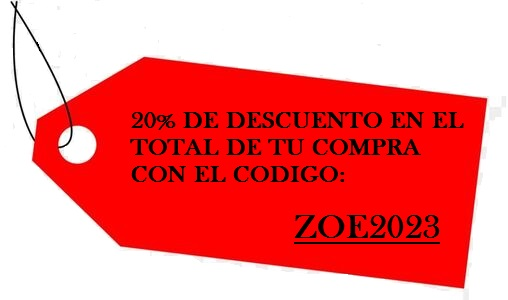
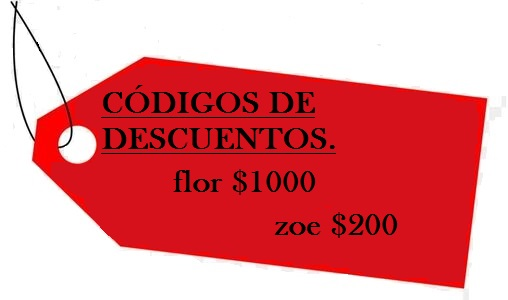
Estilo al carrito

diff --git a/index.html b/index.html
@@ -53,14 +53,17 @@
 
         <section class="productos" id="productos">
             <h1 class="h1-productos">PRODUCTOS DESTACADOS</h1>
-            <button onclick="mostrarCarrito()">VER TOTAL</button>
-            <button onclick="vaciarCarrito()">VACIAR CARRITO</button>
-            <p id="resultado-final"></p>
-            <input type="text" id="input-descuento">
-            <button onclick="aplicarDescuento()">APLICAR DESCUENTO</button>
+            <div class="carrito-productos">
+                <h2>TU CARRITO</h2>
+                <button onclick="mostrarCarrito()">VER TOTAL</button>
+                <button onclick="vaciarCarrito()">VACIAR CARRITO</button>
+                <p id="resultado-final"></p>
+                <input placeholder="ingrese codigo de descuento" type="text" id="input-descuento">
+                <button onclick="aplicarDescuento()">APLICAR DESCUENTO</button>
+            </div>
             <article class="section-productos">
                 <section class="contenedor">
-                    <div class="contenedor-items" >
+                    <div class="contenedor-items">
                         <div class="item">
                             <span class="titulo-item">REMERAS HOMBRE GRANDES</span>
                             <p class="descripcion-item">Remeras para hombre, talles XL, XXL y XXXL,
@@ -68,7 +71,8 @@
                             <img src="img/remera-hombre-grande.jpeg" alt="imagen-remera-estampada-hombre-grande"
                                 class="img-item">
                             <span class="precio-item">$5000</span>
-                            <button class="boton-img" onclick="agregar({nombre: 'remeras', precio: 2000})">Agregar al carrito</button>
+                            <button class="boton-img" onclick="agregar({nombre: 'REMERAS HOMBRE GRANDES', precio: 5000})">Agregar al
+                                carrito</button>
                         </div>
                     </div>
 
@@ -79,7 +83,8 @@
                                 estampado a elección.</p>
                             <img src="img/remera-homre.jpeg" alt="imagen-remera-estampada-hombre" class="img-item">
                             <span class="precio-item">$4000</span>
-                            <button class="boton-img" onclick="agregar({nombre: 'remeras', precio: 2000})">Agregar al carrito</button>
+                            <button class="boton-img" onclick="agregar({nombre: 'REMERAS HOMBRE', precio: 4000})">Agregar al
+                                carrito</button>
                         </div>
                     </div>
 
@@ -90,7 +95,8 @@
                                 estampado a elección.</p>
                             <img src="img/remeras-ninios.jpeg" alt="imagen-remera-estampada-ninios" class="img-item">
                             <span class="precio-item">$3000</span>
-                            <button class="boton-img" onclick="agregar({nombre: 'remeras', precio: 2000})">Agregar al carrito</button>
+                            <button class="boton-img" onclick="agregar({nombre: 'REMERAS NIÑOS', precio: 3000})">Agregar al
+                                carrito</button>
                         </div>
                     </div>
 
@@ -101,7 +107,8 @@
                                 estampado a elección.</p>
                             <img src="img/remera-mujer.jpeg" alt="imagen-remera-estampada-mujeres" class="img-item">
                             <span class="precio-item">$4500</span>
-                            <button class="boton-img" onclick="agregar({nombre: 'remeras', precio: 2000})">Agregar al carrito</button>
+                            <button class="boton-img" onclick="agregar({nombre: 'REMERAS MUJER', precio: 4500})">Agregar al
+                                carrito</button>
                         </div>
                     </div>
 
@@ -112,7 +119,7 @@
                                 estampado a elección.</p>
                             <img src="img/remera-mujer-grande.jpeg" alt="imagen-remera-estampada-mujeres"
                                 class="img-item">
-                            <span class="precio-item" onclick="agregar({nombre: 'remeras', precio: 2000})">$5500</span>
+                            <span class="precio-item" onclick="agregar({nombre: 'REMERAS MUJER GRANDES', precio: 5500})">$5500</span>
                             <button class="boton-img">Agregar al carrito</button>
                         </div>
                     </div>
@@ -124,18 +131,21 @@
                             <img src="img/productos-taza-independiente.jpeg" alt="imagen-tazas-estampada"
                                 class="img-item">
                             <span class="precio-item">$2500</span>
-                            <button class="boton-img" onclick="agregar({nombre: 'remeras', precio: 2000})">Agregar al carrito</button>
+                            <button class="boton-img" onclick="agregar({nombre: 'TAZAS', precio: 2500})">Agregar al
+                                carrito</button>
                         </div>
                     </div>
 
                     <div class="contenedor-items">
                         <div class="item">
                             <span class="titulo-item">GORRAS HOMBRE - MUJER -NIÑOS</span>
-                            <p class="descripcion-item">Gorras unisex con color y estampado a elección, distintos talles.</p>
+                            <p class="descripcion-item">Gorras unisex con color y estampado a elección, distintos
+                                talles.</p>
                             <img src="img/gorras-estampadas.jpeg" alt="imagen-remera-estampada-mujeres"
                                 class="img-item">
                             <span class="precio-item">$2000</span>
-                            <button class="boton-img" onclick="agregar({nombre: 'remeras', precio: 2000})">Agregar al carrito</button>
+                            <button class="boton-img" onclick="agregar({nombre: 'GORRAS', precio: 2000})">Agregar al
+                                carrito</button>
                         </div>
                     </div>
 
@@ -146,7 +156,8 @@
                                 15cm.</p>
                             <img src="img/cuadros-estampados.jpeg" alt="imagen-cuadro-estampado" class="img-item">
                             <span class="precio-item">$1500</span>
-                            <button class="boton-img" onclick="agregar({nombre: 'remeras', precio: 2000})">Agregar al carrito</button>
+                            <button class="boton-img" onclick="agregar({nombre: 'CUADROS EN MADERA', precio: 1500})">Agregar al
+                                carrito</button>
                         </div>
                     </div>
                 </section>
@@ -164,7 +175,8 @@
                             <span class="titulo-item">REMERAS</span>
                             <p class="descripcion-item">Llevando 3 remeras a elección tenes un 10% de descuento en
                                 el total.</p>
-                            <img src="img/promo-remeras.jpeg" alt="imagen-remera-estampada-hombre-grande" class="img-item">
+                            <img src="img/promo-remeras.jpeg" alt="imagen-remera-estampada-hombre-grande"
+                                class="img-item">
                             <span class="precio-item">$10.800</span>
                             <button class="boton-img-promo">Agregar al carrito</button>
                         </div>
@@ -175,7 +187,8 @@
                             <span class="titulo-item">REMERAS NIÑOS</span>
                             <p class="descripcion-item">Llevando 5 remeras a elección, llevate de regalo una taza
                                 con tu nombre!.</p>
-                            <img src="img/promo-ninios.jpeg" alt="imagen-remera-estampada-hombre-grande" class="img-item">
+                            <img src="img/promo-ninios.jpeg" alt="imagen-remera-estampada-hombre-grande"
+                                class="img-item">
                             <span class="precio-item">$15.000</span>
                             <button class="boton-img-promo">Agregar al carrito</button>
                         </div>
@@ -288,7 +301,7 @@
                 </div>
                 <div class="descuento">
                     <img src="img/descuentos.jpeg" alt="descuento">
-                    <p> Hasta 30% de descuentos con compra mayor a 10 prendas!.</p>
+                    <p> Increíbles descuentos utilizando los códigos 'flor' y 'zoe'.</p>
                 </div>
             </article>
         </section>

diff --git a/js/main.js b/js/main.js
@@ -1,3 +1,5 @@
+ //menu hamburguesa
+ 
  const ham = document.querySelector(".ham");
  const enlace = document.querySelector(".enlaces-menu");
  const barras = document.querySelectorAll(".ham span");
@@ -7,44 +9,7 @@
    barras.forEach(child => { child.classList.toggle("animado") });
  });
 
- //carousel
- function changeSlide(carouselId, n) {
-  const carousel = document.getElementById(carouselId);
-  const slides = carousel.getElementsByClassName('slides')[0];
-  const slideIndex = parseInt(carousel.getAttribute('data-slide-index')) || 0;
-
-  const newSlideIndex = slideIndex + n;
-  const slideWidth = slides.offsetWidth / 3;
-
-  if (newSlideIndex >= slides.children.length || newSlideIndex < 0) {
-    return;
-  }
-
-  slides.style.transform = `translateX(-${slideWidth * newSlideIndex}px)`;
-  carousel.setAttribute('data-slide-index', newSlideIndex);
-}
-
-
-
- //clase objetos
-// class Gato {
-//     constructor(nombre, color, vidas, tamanio, alimento, edad, castrado) {
-//         this.nombre = nombre;
-//         this.color = color;
-//         this.vidas = vidas;
-//         this.tamanio = tamanio;
-//         this.alimento = alimento;
-//         this.edad = edad;
-//         this.castrado = castrado;
-//     }
-// } 
-
-// const pantufla = new Gato ("pantufla", "blanco y naranja", 7, "s", "whiskas", "7 meses", false);
-// const mateo = new Gato ("mateo", "negro y blanco", 10, "m", "pollo", "2 anios", true);
-
-// console.log(Gato);
-// console.log(pantufla);
-// console.log(mateo);
+ //carrito
 
 let carrito = [];
 let descuento = 0;
@@ -53,6 +18,7 @@ const  p  = document.getElementById("resultado-final");
 function agregar(producto) { 
   carrito.push(producto);
   console.log(carrito);
+  alert("producto agregado correctamente");
   
 } 
 

diff --git a/sass/sections/_productos.scss b/sass/sections/_productos.scss
@@ -24,3 +24,39 @@
         }
     }
 }
+
+.carrito-productos {
+    display: flex;
+    flex-direction: column;
+    margin: 15px;
+    gap: 30px;
+
+    h2{
+        text-align: center;
+        font-size: 1.5rem;
+        padding: 1em;
+    }
+
+    button, input {
+        padding: 1em;
+        font-size: 1.3rem;
+        text-align: center;
+        cursor: pointer;
+        border: solid magenta;
+        background-color: rgba(255, 0, 255, 0.331);
+        border-radius: 5px;
+        width: 40%;
+        display: flex;
+        margin: auto;
+    }
+
+    p {
+        text-align: center;
+        font-size: 1.3rem;
+        margin: auto;
+        padding: 1em;
+        width: 40%;
+        border: solid magenta;
+    }
+
+}

diff --git a/css/style.css b/css/style.css
@@ -270,6 +270,38 @@ h1 {
   color: magenta;
 }
 
+.carrito-productos {
+  display: flex;
+  flex-direction: column;
+  margin: 15px;
+  gap: 30px;
+}
+.carrito-productos h2 {
+  text-align: center;
+  font-size: 1.5rem;
+  padding: 1em;
+}
+.carrito-productos button, .carrito-productos input {
+  padding: 1em;
+  font-size: 1.3rem;
+  text-align: center;
+  cursor: pointer;
+  border: solid magenta;
+  background-color: rgba(255, 0, 255, 0.331);
+  border-radius: 5px;
+  width: 40%;
+  display: flex;
+  margin: auto;
+}
+.carrito-productos p {
+  text-align: center;
+  font-size: 1.3rem;
+  margin: auto;
+  padding: 1em;
+  width: 40%;
+  border: solid magenta;
+}
+
 .h1-promociones {
   background-color: rgb(255, 255, 0);
 }
